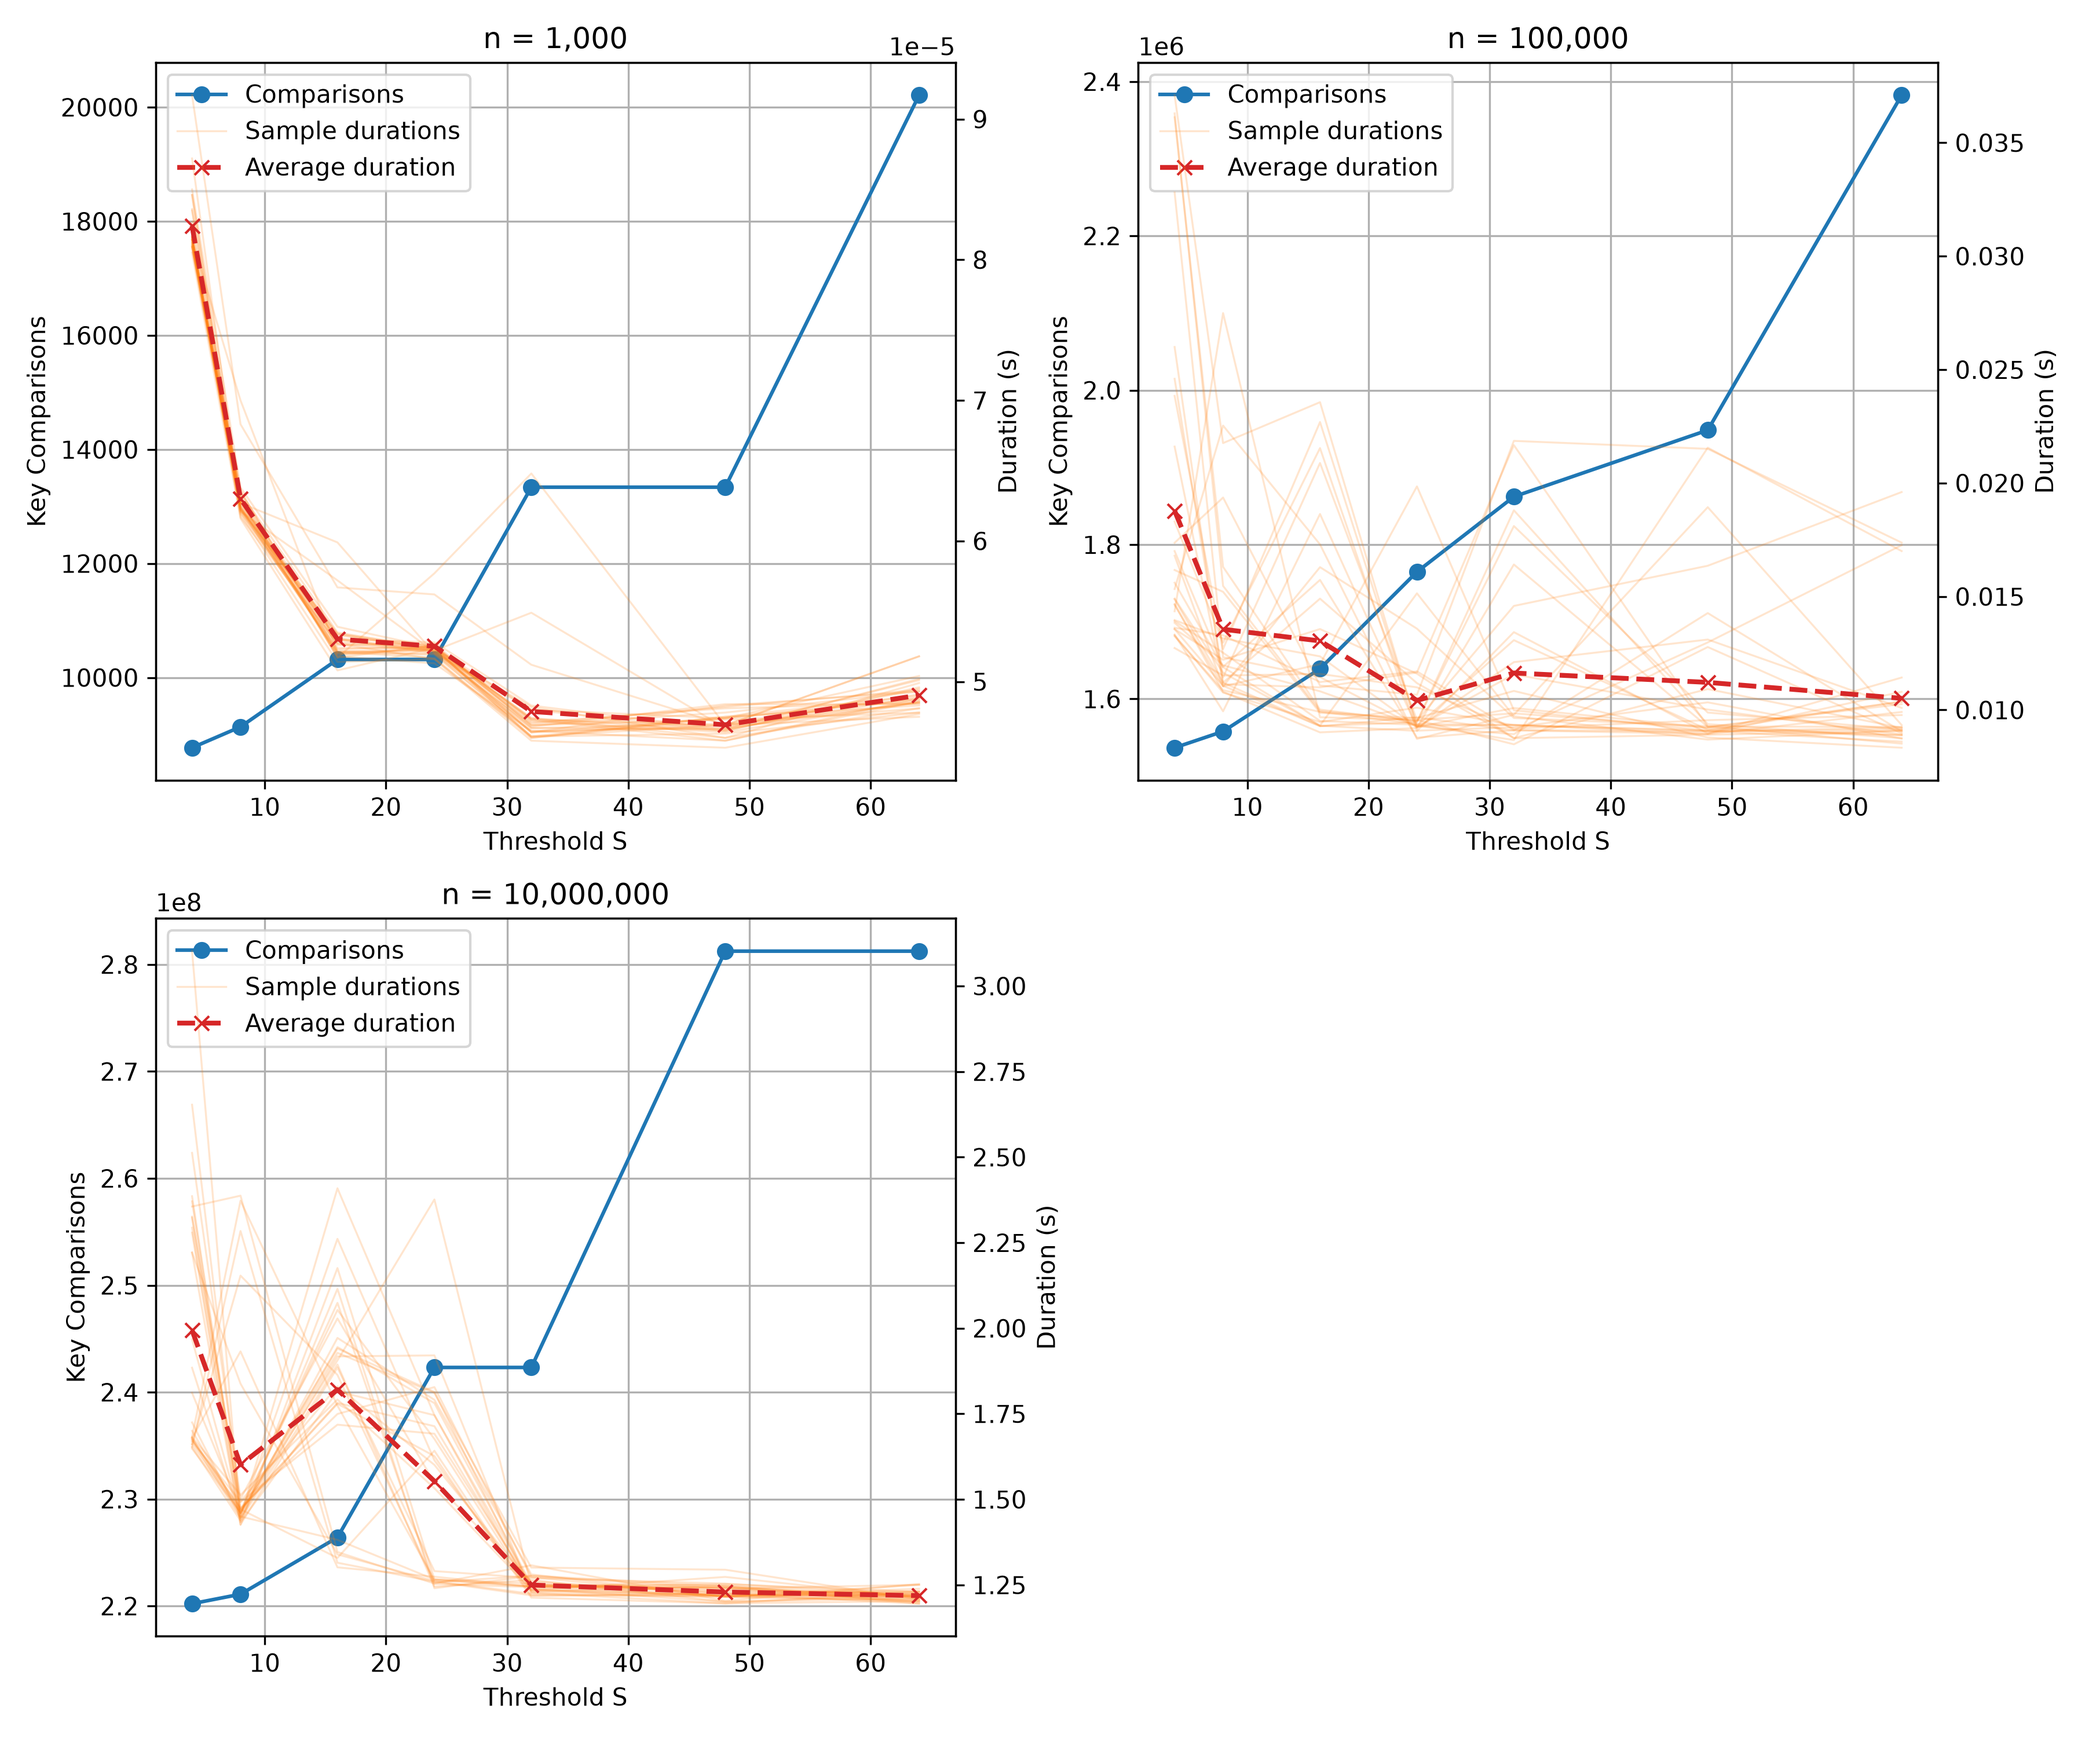
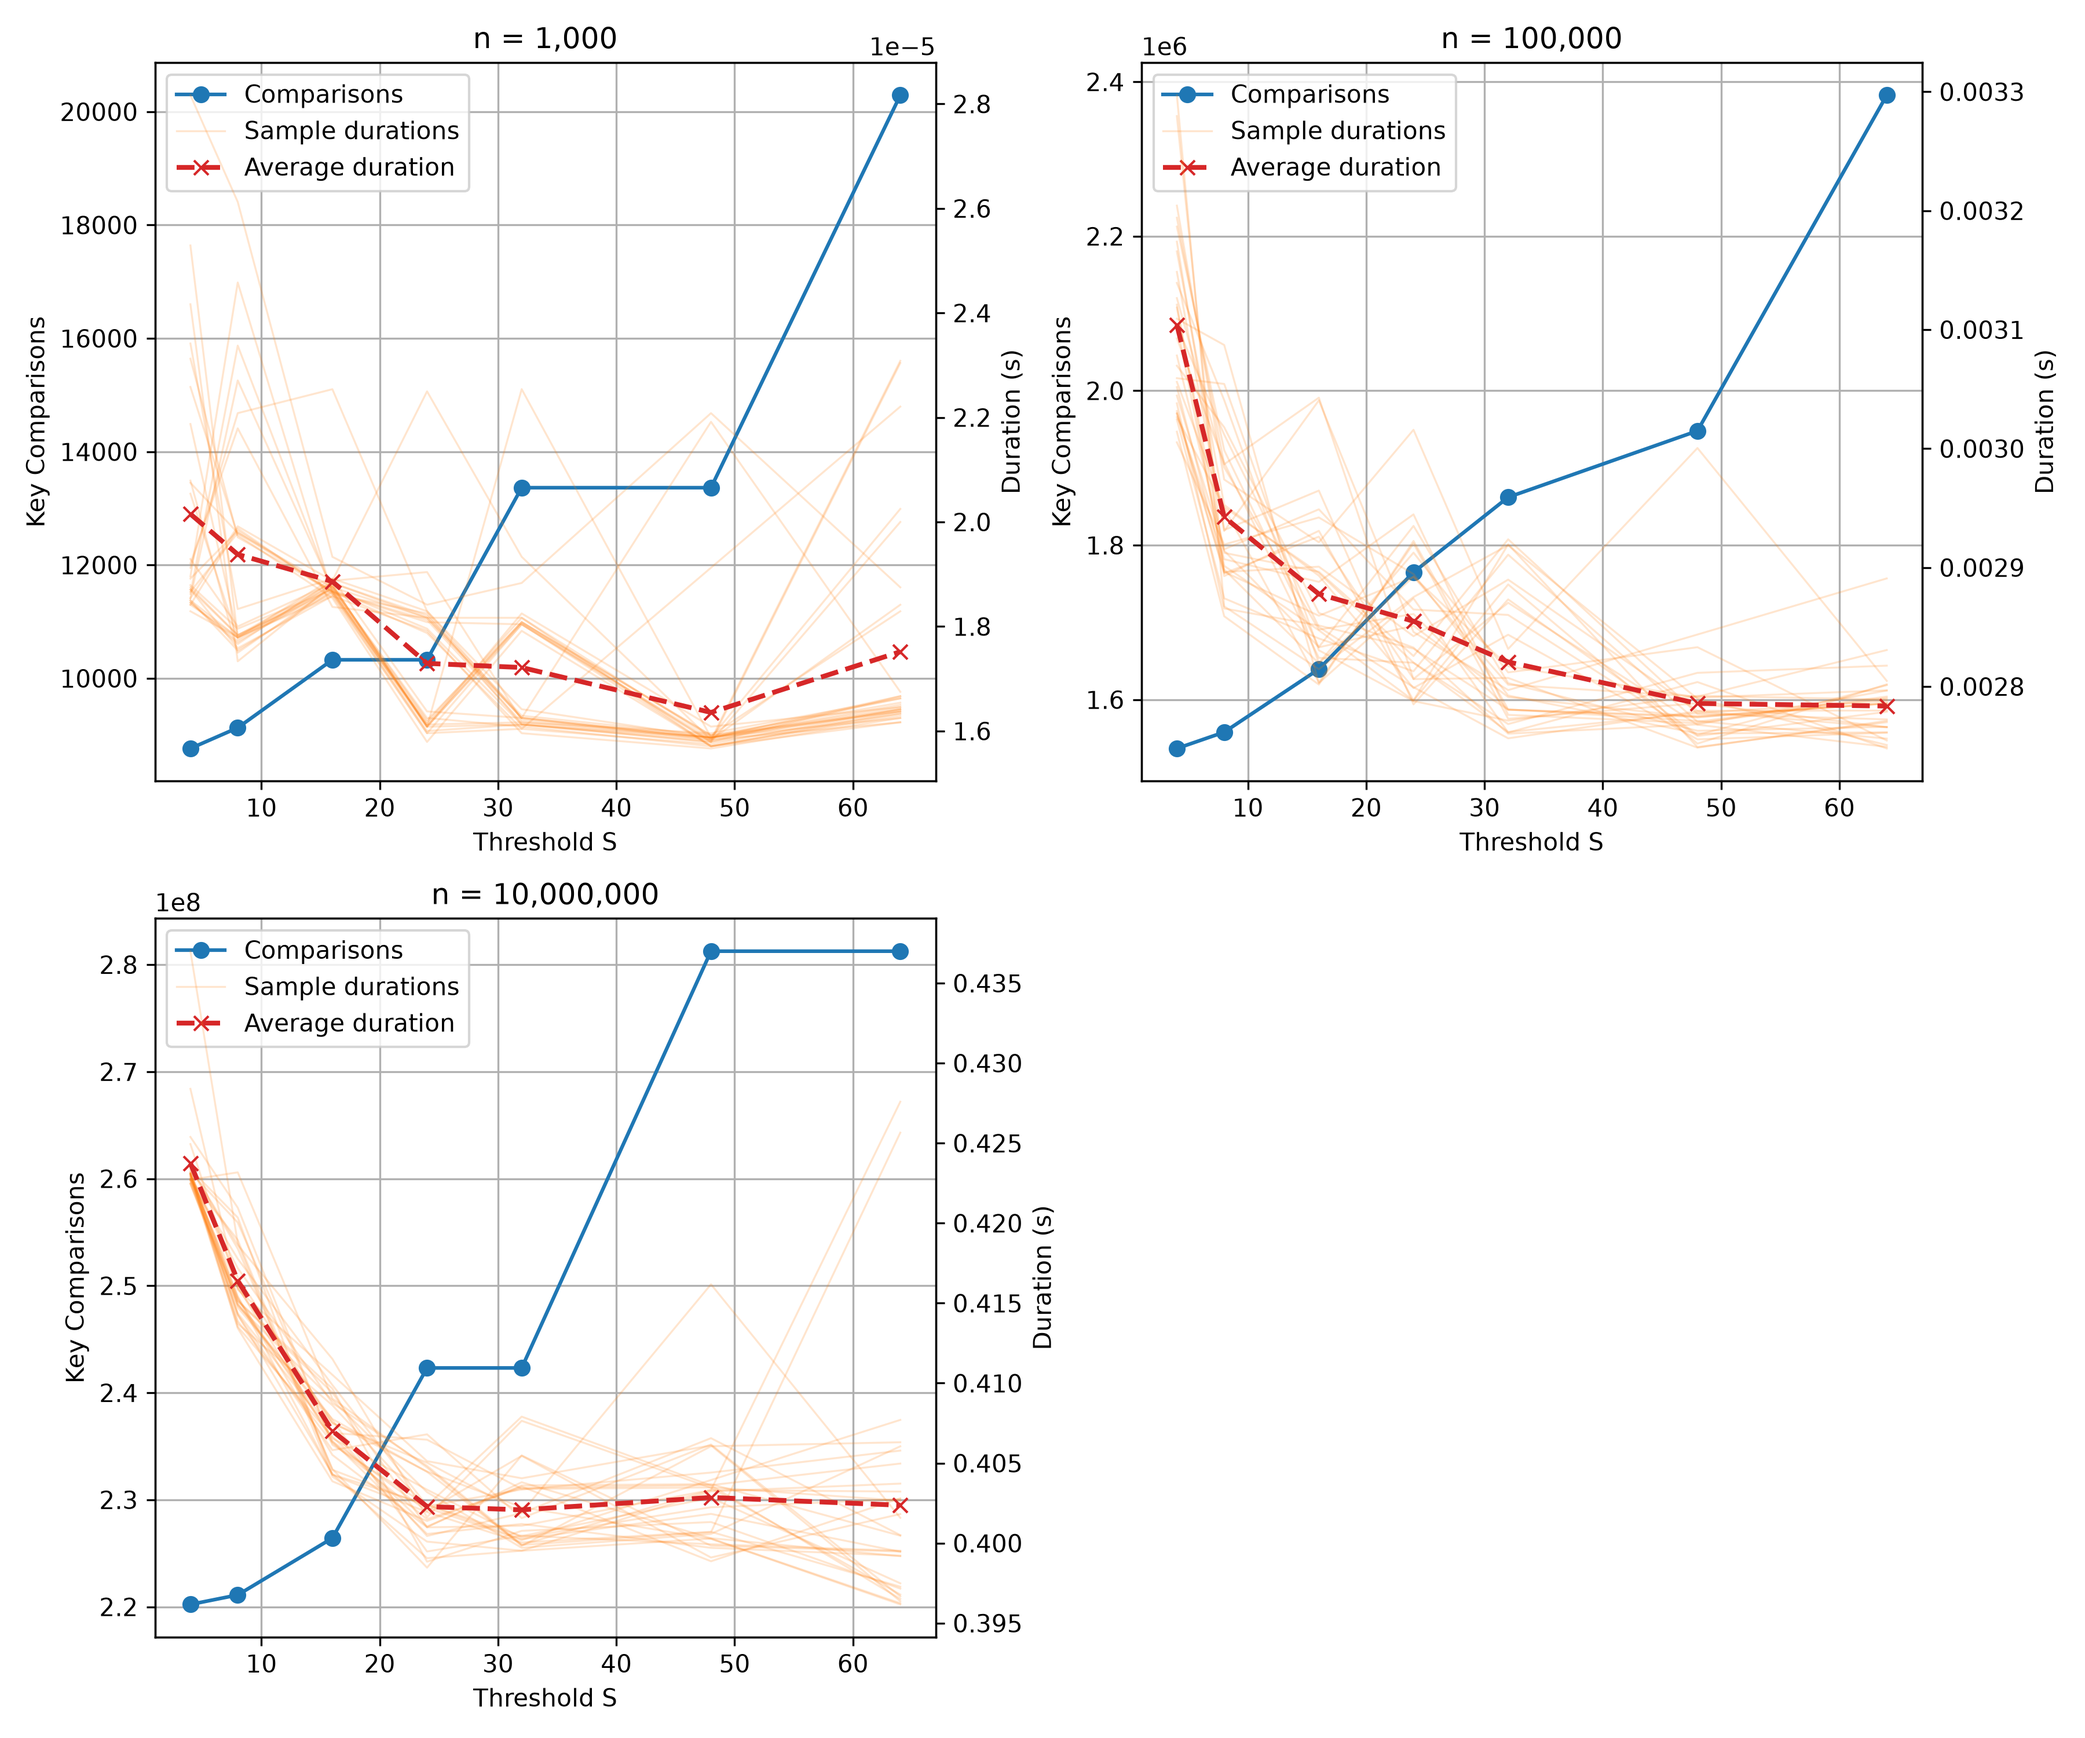
Optimize c++ sort

diff --git a/algorithms_cpp.cpp b/algorithms_cpp.cpp
@@ -1,6 +1,7 @@
 /*
 <%
 setup_pybind11(cfg)
+cfg["compiler_args"] += ["-O2", "-std=c++20"]
 %>
 */
 
@@ -13,91 +14,92 @@ setup_pybind11(cfg)
 
 namespace py = pybind11;
 
-using SortResult = std::pair<std::vector<int>, int>;
 using RunResult = std::tuple<std::vector<int>, int, double>;
 
-SortResult _insertion_sort(std::vector<int> arr) {
+int _insertion_sort(std::vector<int>& arr, int l, int r) {
     int comparisons = 0;
 
-    for (int i = 0; i < arr.size(); ++i) {
+    int n = arr.size();
+    for (int i = l+1; i < r; ++i) {
         int j = i;
-        while (j > 0 && arr[j] < arr[j - 1]) {
+        while (j > l && arr[j] < arr[j - 1]) {
             std::swap(arr[j], arr[j - 1]);
             --j;
             ++comparisons; // Count the comparison that succeeded
         }
-        if (j > 0) {
+        if (j > l) {
             ++comparisons; // Count the comparison that failed the while condition
         }
     }
 
-    return {std::move(arr), comparisons};
+    return comparisons;
 }
-
-SortResult _merge(const std::vector<int>& left, const std::vector<int>& right) {
-    std::vector<int> merged;
-    merged.reserve(left.size() + right.size());
+int _merge(std::vector<int>& arr, std::vector<int>& buffer, int l, int mid, int r) {
+    std::vector<int>::iterator itr = buffer.begin() + l;
     int comparisons = 0;
 
-    size_t i = 0, j = 0;
-    while (i < left.size() && j < right.size()) {
-        if (left[i] < right[j]) {
-            merged.push_back(left[i++]);
+    size_t i = l, j = mid;
+    while (i < mid && j < r) {
+        if (arr[i] < arr[j]) {
+            *(itr++) = arr[i++];
         } else {
-            merged.push_back(right[j++]);
+            *(itr++) = arr[j++];
         }
         ++comparisons; // Count the comparison made during merging
     }
 
     // Append remaining elements
-    while (i < left.size()) {
-        merged.push_back(left[i++]);
+    while (i < mid) {
+        *(itr++) = arr[i++];
     }
-    while (j < right.size()) {
-        merged.push_back(right[j++]);
+    while (j < r) {
+        *(itr++) = arr[j++];
     }
 
-    return {std::move(merged), comparisons};
+    for (int i=l; i<r; i++) arr[i] = buffer[i];
+
+    return comparisons;
 }
 
-SortResult _hybrid_sort(const std::vector<int>& arr, int l, int r, int s) {
+int _hybrid_sort(std::vector<int>& arr, std::vector<int>& buffer, int l, int r, int s) {
     if (r - l <= s) {
-        return _insertion_sort(std::vector<int>(arr.begin() + l, arr.begin() + r));
+        return _insertion_sort(arr, l, r);
     }
 
     int mid = (r+l) >> 1;
-    SortResult left = _hybrid_sort(arr, l, mid, s);
-    SortResult right = _hybrid_sort(arr, mid, r, s);
+    int left_comparisons = _hybrid_sort(arr, buffer, l, mid, s);
+    int right_comparisons = _hybrid_sort(arr, buffer, mid, r, s);
 
-    SortResult merged_results = _merge(left.first, right.first);
+    int merged_comparisons = _merge(arr, buffer, l, mid, r);
 
-    merged_results.second += left.second + right.second;
-    return merged_results;
+    return left_comparisons + right_comparisons + merged_comparisons;
 }
 
 
-RunResult hybrid_sort(const std::vector<int>& arr, int threshold) {
+RunResult hybrid_sort(std::vector<int>& arr, int threshold) {
+    std::vector<int> buf(arr.begin(), arr.end());
     auto start = std::chrono::steady_clock::now();
 
-    auto res = _hybrid_sort(arr, 0, arr.size(), threshold);
+    int res = _hybrid_sort(arr, buf, 0, arr.size(), threshold);
 
     auto end = std::chrono::steady_clock::now();
 
     double seconds = std::chrono::duration<double>(end - start).count();
     
-    return {std::move(res.first), res.second, seconds};
+    return {arr, res, seconds};
 }
 
-RunResult merge_sort(const std::vector<int>& arr) {
+RunResult merge_sort(std::vector<int>& arr) {
+    std::vector<int> buf(arr.begin(), arr.end());
     auto start = std::chrono::steady_clock::now();
 
-    SortResult res = _hybrid_sort(arr, 0, arr.size(), 1);
+    int res = _hybrid_sort(arr, buf, 0, arr.size(), 1);
 
     auto end = std::chrono::steady_clock::now();
 
     double seconds = std::chrono::duration<double>(end - start).count();
     
-    return {res.first, res.second, seconds};
+    return {arr, res, seconds};
 }
 
 PYBIND11_MODULE(algorithms_cpp, m) {

diff --git a/main.py b/main.py
@@ -199,5 +199,5 @@ if __name__ == "__main__":
     sanity_check()
     dataset = data_generator.dataset(100)
     S = 32
-    plot_over_input_size(dataset, S)
-    # plot_over_s(30, [1000, 100_000, 10_000_000], [4, 8, 16, 24, 32, 48, 64])
+    # plot_over_input_size(dataset, S)
+    plot_over_s(30, [1000, 100_000, 10_000_000], [4, 8, 16, 24, 32, 48, 64])
